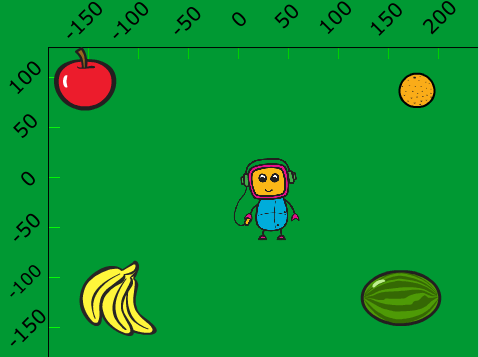
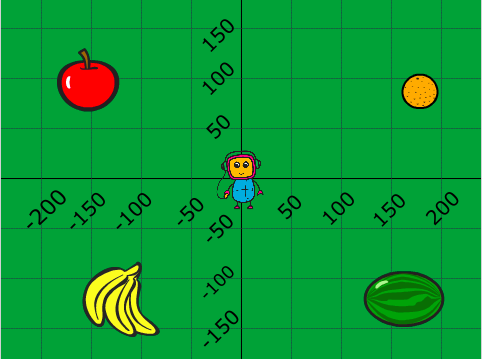
Uppdatering av Följ frukten
Uppdaterat bilder och instruktioner till uppgiften “Följ frukten”

diff --git a/block1_foljfrukten/README.html b/block1_foljfrukten/README.html
@@ -1,20 +1,26 @@
 <!doctype html>
 <html><head><meta charset="utf-8"><meta name="viewport" content="width=device-width"></head><body>
 <h1 id="f-lj-frukten">Följ frukten</h1>
-<p>I denna uppgift ska du få leka med koordinater i Scratch. Koordinater behövs för att ange någon eller någots position. Du ska få animera en robot så att den rör sig runt på scenen och äter frukt. Roboten och frukterna kommer ha olika koordinater som anger deras position.</p>
+<p>I denna uppgift ska du få leka med koordinater i Scratch. Koordinater behövs för att ange någon eller någots position. Du ska få animera en robot så att den rör sig runt på scenen och äter frukt.</p>
 <p>Ett exempel på hur det kan se ut hittar du här:</p>
 <p><a href="https://scratch.mit.edu/projects/172523787/">https://scratch.mit.edu/projects/172523787/</a></p>
 <p><img src="image_0.png" alt="image alt text"></p>
 <h2 id="delmoment-1-remixa-ett-projekt">Delmoment 1 - Remixa ett projekt</h2>
 <p>Vi börjar med att remixa projekt som redan finns på Scratch. Detta gör att det blir enklare att komma igång. Dessutom får du två sprajtar och lite kod på köpet. Smart va?!</p>
-<p>Öppna din webbläsare och gå till</p>
-<p><a href="https://scratch.mit.edu/projects/172763192/">https://scratch.mit.edu/projects/172763192/</a></p>
-<p>Klicka på knappen <strong>&quot;Se inuti&quot;</strong> så att du kan se koden.</p>
-<p><img src="image_1.png" alt="image alt text"></p>
-<p><em>Projektsidan som visas när du följer länken ovan</em></p>
-<p>Klicka sedan på knappen <strong>&quot;Remix&quot;</strong> så att du får din egen version av projektet.</p>
-<p><img src="image_2.png" alt="image alt text"><em>Remix-knappen markerad</em></p>
-<p>När du har remixat programmet så ser du att projektets namn har förändrats. Om du tittar under namnet ska du också se ditt eget användarnamn. Du kan döpa om projekt till något som passar bättre.</p>
+<ol>
+<li><p>Öppna din webbläsare och gå till</p>
+<p> <a href="https://scratch.mit.edu/projects/172763192/">https://scratch.mit.edu/projects/172763192/</a></p>
+</li>
+<li><p>Klicka på knappen <strong>&quot;Se inuti&quot;</strong> så att du kan se koden.</p>
+<p> <img src="image_1.png" alt="image alt text"></p>
+</li>
+<li><p>Klicka sedan på knappen <strong>&quot;Remix&quot;</strong> så att du får din egen version av projektet.</p>
+<p> <img src="image_2.png" alt="image alt text"></p>
+<p> När du har remixat programmet så ser du att projektets namn har förändrats.</p>
+</li>
+<li><p>Döp om projekt till något som passar bättre.</p>
+</li>
+</ol>
 <p><img src="image_3.png" alt="image alt text"></p>
 <p><em>Namnet på projektet har fått ordet &quot;remix&quot; på slutet</em></p>
 <p>I projektet har du nu två sprajter: <img src="image_4.png" alt="image alt text"></p>
@@ -24,84 +30,76 @@
 <li><p>Koordinataxlar som visar x- och y-axeln.</p>
 </li>
 </ol>
-<p>Innan vi börjar koda ska vi först titta lite närmare på våra två sprajter och koordinatsystemet i Scratch. Varje Sprajt har en specifik position i koordinatsystemet som anges med två siffror. En som anger positionen i höger–vänster riktning och en som anger positionen i upp–ner riktning. Positionen i höger–vänster riktning kallas x–värdet och positionen i upp–ner riktning kallas y-värdet. X– och y–värdena anges på två axlar: x–axeln och y–axeln. X–axeln går mellan –240 och 240, medan y–axeln går mellan –180 och 180.</p>
-<p><img src="image_5.png" alt="image alt text"><em>Så här ser en markerad sprajt ut</em></p>
-<p>Om du markerar sprajten <strong>Koordinater</strong> så får du upp koden för denna sprajt. Det är en enkel kod som helt enkelt placerar sprajten på rätt ställe på scenen.</p>
-<p>Om du klickar på fliken <strong>Klädslar</strong> kan du se att det finns koordinatsystemet uppritat på olika sätt.</p>
+<p>Innan vi börjar koda ska vi först titta lite närmare på våra två sprajter och koordinatsystemet i Scratch.</p>
+<ol>
+<li><p>Markerar sprajten <strong>Koordinater</strong> så får du upp koden för denna sprajt. Det är en enkel kod som helt enkelt placerar sprajten på rätt ställe på scenen.</p>
+<p> <img src="image_5.png" alt="image alt text"><em>Så här ser en markerad sprajt ut</em></p>
+</li>
+<li><p>Klicka på fliken <strong>Klädslar</strong>. Där finns koordinatsystemet uppritat på olika sätt.</p>
+</li>
+</ol>
 <p><img src="image_6.png" alt="image alt text"></p>
-<p><em>De olika sätten att rita koordinatsystemet</em></p>
-<p>Om du klickar på klädseln <strong>&quot;mitten_svart&quot;</strong> så får du upp ett sätt att visa koordinatsystemet som du kanske känner igen bättre. I detta koordinatsystem korsar x– och y–axeln med varandra.</p>
-<p><img src="image_7.png" alt="image alt text"></p>
-<p>Det är dock lika rätt att visa koordinatsystemet som det gjordes när du remixade projektet. Klicka på klädseln <strong>&quot;uppe_svart&quot;</strong>. I detta koordinatsystem visas x–axeln överst på scenen och y–axeln till vänster i scenen. På så sätt så skyms inte så mycket av spelet av koordinatsystemet, så vi kommer använda oss av det i denna övning. Om du känner dig säkrare med “korset” så klicka på klädseln <strong>“mitten_svart”</strong>.</p>
 <blockquote>
-<p>Nu ska vi kolla så att placeringen av koordinatsystemet fungerar!</p>
+<p>Vi kommer använda koordinatsystemet med ett rutnät så att du kan lära dig hur koordinater fungerar. När du lärt dig detta kan du använda en annan klädsel. En annan klädsel kan du också använda om krysset och rutnätet är i vägen för andra sprajter.</p>
 </blockquote>
-<p><img src="image_8.png" alt="image alt text"></p>
-<p><em>När du har musen vid –50 på x-axeln så visas koordinaterna i nedre-högra hörnet</em></p>
-<ul>
-<li><p>Flytta musen så att den är vid siffran <strong>–50</strong> på <strong>x-axeln</strong>.</p>
+<p><strong>Nu ska vi kolla så att placeringen av koordinatsystemet fungerar:</strong></p>
+<ol>
+<li><p>Flytta musen så att den är vid siffran <strong>50</strong> på <strong>x-axeln</strong> och <strong>-100</strong> på <strong>y-axeln</strong>.</p>
+<p> <img src="image_8.png" alt="image alt text"></p>
+<blockquote>
+<p>Om du tittar i högra hörnet under scenen så visar Scratch koordinaterna för musen. Stämmer den siffran överens med siffran på det utridade koordinatsystemet?</p>
+</blockquote>
 </li>
-<li><p>Om du tittar i högra hörnet under scenen så visar Scratch koordinaterna för musen. Stämmer den siffran överens med siffran på den utritade x-axeln?</p>
+<li><p>Klicka nu på sprajten <strong>Robot</strong> så att den blir markerad. Koordinaten för en sprajt visas i övre högra hörnet i skriptytan. Vilka koordinater har sprajten?</p>
+<p> <img src="image_9.png" alt="image alt text"></p>
 </li>
-<li><p>Flytta nu musen till <strong>50</strong> på <strong>y-axeln</strong>. Visas rätt koordinater under scenen?</p>
-</li>
-</ul>
-<p>Klicka nu på sprajten <strong>Robot</strong> så att den blir markerad. Koordinaten för en sprajt visas i övre högra hörnet i skriptytan. Vilka koordinater har sprajten?</p>
-<p><img src="image_9.png" alt="image alt text"></p>
-<ul>
 <li><p>Flytta omkring <strong>Robot-sprajten</strong> på scenen och se hur koordinaterna ändrar sig</p>
 </li>
 <li><p>Placera <strong>Robot</strong>-sprajten ungefär vid <strong>x: 0, y:0</strong>. Denna punkt kallas <em>origo</em>, och är mitt på scenen.</p>
 </li>
-</ul>
+</ol>
 <h2 id="delmoment-2-bakgrund-och-frukter">Delmoment 2 - Bakgrund och frukter</h2>
 <p>Du ska få börja med att ladda en bakgrundsbild för spelet.</p>
 <p><img src="image_10.png" alt="image alt text"></p>
-<ul>
+<ol>
 <li><p>Klicka på fliken <strong>Bakgrunder</strong></p>
 </li>
-<li><p>Klicka på <strong>Färgburken</strong> och färglägg bakgrunden med en grön färg.</p>
+<li><p>Klicka på <strong>Färgburken</strong> och färglägg bakgrunden med en rolig färg. Här i exemplet har jag använt grönt.</p>
+<p> <img src="image_11.png" alt="image alt text"></p>
 </li>
-</ul>
-<p><img src="image_11.png" alt="image alt text"></p>
-<p><em>Färgburken är markerad i bilden</em></p>
-<p>Nu ska vi placera ut några frukter på scenen!</p>
-<p><img src="image_12.png" alt="image alt text"></p>
+</ol>
+<p><strong>Nu ska vi placera ut några frukter på scenen:</strong></p>
 <ol>
 <li><p>Klicka på &quot;Välj sprajt från biblioteket&quot;</p>
+<p> <img src="image_12.png" alt="image alt text"></p>
 </li>
 <li><p>Markera <strong>Äpplet</strong> och klicka på <strong>Ok</strong></p>
 </li>
 <li><p>Placera <strong>Äpplet</strong> i övre vänstra hörnet på scenen.</p>
 </li>
+<li><p>Lägg själv till tre sprajter och placera ut dem på scenen. Här har vi valt att lägga ut <strong>Bananer</strong>, <strong>Apelsin</strong> och <strong>Vattenmelon</strong>.</p>
+</li>
 </ol>
-<p>Nu får själv lägga till tre sprajter och placera ut dem på scenen. Här har vi valt att lägga ut <strong>Bananer</strong>, <strong>Apelsin</strong> och <strong>Vattenmelon</strong>.</p>
 <p>Det kan se ut så här:</p>
 <p><img src="image_13.png" alt="image alt text"></p>
 <h2 id="delmoment-3-animera-roboten">Delmoment 3 - Animera roboten</h2>
 <p>Nu ska vi animera roboten så att den rör sig mellan de olika frukterna: först till äpplet, sedan till bananerna, sedan till vattenmelonen och till sist till apelsinen.</p>
 <ol>
-<li>Börja med att markera <strong>Robot</strong> sprajten:</li>
-</ol>
-<p><img src="image_14.png" alt="image alt text"></p>
-<p><em>När en sprajt är markerad ser du ett blå ruta runt den sprajten</em></p>
-<ol>
-<li>Sedan ska vi skapa ett skript för roboten. Börja med att dra in ett kodblock som heter <strong>&quot;När denna sprajt klickas på&quot;</strong> till skriptytan.</li>
-</ol>
-<p><img src="image_15.png" alt="image alt text"></p>
-<ol>
-<li>Under detta block fäster du ett kodblock <strong>&quot;Gå till x: y:&quot;</strong></li>
-</ol>
-<p><img src="image_16.png" alt="image alt text"></p>
-<ol>
-<li>I stället för koordinaterna som står i kodblocket skriver du vilka koordinater <strong>du tror att äpplet har</strong>. Använd det utritade koordinatsystemet som hjälp. Det kan se ut se här.</li>
-</ol>
-<p><img src="image_17.png" alt="image alt text"></p>
-<ol>
-<li>Dra in sedan ett kodblock <strong>&quot;Vänta 1 sekund&quot;</strong> och fäst det underst i skriptet.</li>
-</ol>
-<p><img src="image_18.png" alt="image alt text"></p>
-<ol>
+<li><p>Börja med att markera <strong>Robot</strong> sprajten:</p>
+<p> <img src="image_14.png" alt="image alt text"></p>
+</li>
+<li><p>Skapa ett skript för roboten. Börja med att dra in ett kodblock som heter <strong>&quot;När denna sprajt klickas på&quot;</strong> till skriptytan.</p>
+<p> <img src="image_15.png" alt="image alt text"></p>
+</li>
+<li><p>Under detta block fäster du ett kodblock <strong>&quot;Gå till x: y:&quot;</strong></p>
+<p> <img src="image_16.png" alt="image alt text"></p>
+</li>
+<li><p>I stället för koordinaterna som står i kodblocket skriver du vilka koordinater <strong>du tror att äpplet har</strong>. Använd det utritade koordinatsystemet som hjälp. Det kan se ut se här.</p>
+<p> <img src="image_17.png" alt="image alt text"></p>
+</li>
+<li><p>Dra in sedan ett kodblock <strong>&quot;Vänta 1 sekund&quot;</strong> och fäst det underst i skriptet.</p>
+<p> <img src="image_18.png" alt="image alt text"></p>
+</li>
 <li><p>Nu drar du in ett till <strong>&quot;gå till x: y:&quot;</strong> och anger koordinaterna för bananerna. Och sedan ett <strong>“vänta”</strong>-block.</p>
 </li>
 <li><p>Fortsätt så tills du har animerat <strong>Roboten</strong> att gå runt till alla frukterna.</p>
@@ -120,7 +118,6 @@
 </li>
 </ol>
 <p><img src="image_19.png" alt="image alt text"></p>
-<p><em>Detta är robotens startskript</em></p>
 <h2 id="f-rdig-">Färdig!</h2>
 <p>Grattis, nu har du skapat ett nytt program!</p>
 <p>Glöm inte att spara ditt projekt! Kom ihåg att ge spelet ett bra namn.</p>

diff --git a/block1_foljfrukten/README.md b/block1_foljfrukten/README.md
@@ -1,6 +1,6 @@
 # Följ frukten
 
-I denna uppgift ska du få leka med koordinater i Scratch. Koordinater behövs för att ange någon eller någots position. Du ska få animera en robot så att den rör sig runt på scenen och äter frukt. Roboten och frukterna kommer ha olika koordinater som anger deras position.
+I denna uppgift ska du få leka med koordinater i Scratch. Koordinater behövs för att ange någon eller någots position. Du ska få animera en robot så att den rör sig runt på scenen och äter frukt.
 
 Ett exempel på hur det kan se ut hittar du här:
 
@@ -12,21 +12,22 @@ Ett exempel på hur det kan se ut hittar du här:
 
 Vi börjar med att remixa projekt som redan finns på Scratch. Detta gör att det blir enklare att komma igång. Dessutom får du två sprajtar och lite kod på köpet. Smart va?!
 
-Öppna din webbläsare och gå till
+1. Öppna din webbläsare och gå till
 
-[https://scratch.mit.edu/projects/172763192/](https://scratch.mit.edu/projects/172763192/)
+    [https://scratch.mit.edu/projects/172763192/](https://scratch.mit.edu/projects/172763192/)
 
-Klicka på knappen **"Se inuti"** så att du kan se koden.
+2. Klicka på knappen **"Se inuti"** så att du kan se koden.
 
-![image alt text](image_1.png)
+    ![image alt text](image_1.png)
 
-*Projektsidan som visas när du följer länken ovan*
+3. Klicka sedan på knappen **"Remix"** så att du får din egen version av projektet.
 
-Klicka sedan på knappen **"Remix"** så att du får din egen version av projektet.
+    ![image alt text](image_2.png)
 
-![image alt text](image_2.png)*Remix-knappen markerad*
+    När du har remixat programmet så ser du att projektets namn har förändrats.
 
-När du har remixat programmet så ser du att projektets namn har förändrats. Om du tittar under namnet ska du också se ditt eget användarnamn. Du kan döpa om projekt till något som passar bättre.
+4. Döp om projekt till något som passar bättre.
+
 
 ![image alt text](image_3.png)
 
@@ -38,43 +39,33 @@ I projektet har du nu två sprajter: ![image alt text](image_4.png)
 
 2. Koordinataxlar som visar x- och y-axeln.
 
-Innan vi börjar koda ska vi först titta lite närmare på våra två sprajter och koordinatsystemet i Scratch. Varje Sprajt har en specifik position i koordinatsystemet som anges med två siffror. En som anger positionen i höger–vänster riktning och en som anger positionen i upp–ner riktning. Positionen i höger–vänster riktning kallas x–värdet och positionen i upp–ner riktning kallas y-värdet. X– och y–värdena anges på två axlar: x–axeln och y–axeln. X–axeln går mellan –240 och 240, medan y–axeln går mellan –180 och 180.
+Innan vi börjar koda ska vi först titta lite närmare på våra två sprajter och koordinatsystemet i Scratch.
 
-![image alt text](image_5.png)*Så här ser en markerad sprajt ut*
+1. Markerar sprajten **Koordinater** så får du upp koden för denna sprajt. Det är en enkel kod som helt enkelt placerar sprajten på rätt ställe på scenen.
 
-Om du markerar sprajten **Koordinater** så får du upp koden för denna sprajt. Det är en enkel kod som helt enkelt placerar sprajten på rätt ställe på scenen.
+    ![image alt text](image_5.png)*Så här ser en markerad sprajt ut*
 
-Om du klickar på fliken **Klädslar** kan du se att det finns koordinatsystemet uppritat på olika sätt.
+2. Klicka på fliken **Klädslar**. Där finns koordinatsystemet uppritat på olika sätt.
 
 ![image alt text](image_6.png)
 
-*De olika sätten att rita koordinatsystemet*
+> Vi kommer använda koordinatsystemet med ett rutnät så att du kan lära dig hur koordinater fungerar. När du lärt dig detta kan du använda en annan klädsel. En annan klädsel kan du också använda om krysset och rutnätet är i vägen för andra sprajter.
 
-Om du klickar på klädseln **"mitten_svart"** så får du upp ett sätt att visa koordinatsystemet som du kanske känner igen bättre. I detta koordinatsystem korsar x– och y–axeln med varandra.
+**Nu ska vi kolla så att placeringen av koordinatsystemet fungerar:**
 
-![image alt text](image_7.png)
+1. Flytta musen så att den är vid siffran **50** på **x-axeln** och **-100** på **y-axeln**.
 
-Det är dock lika rätt att visa koordinatsystemet som det gjordes när du remixade projektet. Klicka på klädseln **"uppe_svart"**. I detta koordinatsystem visas x–axeln överst på scenen och y–axeln till vänster i scenen. På så sätt så skyms inte så mycket av spelet av koordinatsystemet, så vi kommer använda oss av det i denna övning. Om du känner dig säkrare med “korset” så klicka på klädseln **“mitten_svart”**.
+    ![image alt text](image_8.png)
 
-> Nu ska vi kolla så att placeringen av koordinatsystemet fungerar!
+    > Om du tittar i högra hörnet under scenen så visar Scratch koordinaterna för musen. Stämmer den siffran överens med siffran på det utridade koordinatsystemet?
 
-![image alt text](image_8.png)
+2. Klicka nu på sprajten **Robot** så att den blir markerad. Koordinaten för en sprajt visas i övre högra hörnet i skriptytan. Vilka koordinater har sprajten?
 
-*När du har musen vid –50 på x-axeln så visas koordinaterna i nedre-högra hörnet*
+    ![image alt text](image_9.png)
 
-* Flytta musen så att den är vid siffran **–50** på **x-axeln**.
+3. Flytta omkring **Robot-sprajten** på scenen och se hur koordinaterna ändrar sig
 
-* Om du tittar i högra hörnet under scenen så visar Scratch koordinaterna för musen. Stämmer den siffran överens med siffran på den utritade x-axeln?
-
-* Flytta nu musen till **50** på **y-axeln**. Visas rätt koordinater under scenen?
-
-Klicka nu på sprajten **Robot** så att den blir markerad. Koordinaten för en sprajt visas i övre högra hörnet i skriptytan. Vilka koordinater har sprajten?
-
-![image alt text](image_9.png)
-
-* Flytta omkring **Robot-sprajten** på scenen och se hur koordinaterna ändrar sig
-
-* Placera **Robot**-sprajten ungefär vid **x: 0, y:0**. Denna punkt kallas *origo*, och är mitt på scenen.
+4. Placera **Robot**-sprajten ungefär vid **x: 0, y:0**. Denna punkt kallas *origo*, och är mitt på scenen.
 
 ## Delmoment 2 - Bakgrund och frukter
 
@@ -82,25 +73,24 @@ Du ska få börja med att ladda en bakgrundsbild för spelet.
 
 ![image alt text](image_10.png)
 
-* Klicka på fliken **Bakgrunder**
+1. Klicka på fliken **Bakgrunder**
 
-* Klicka på **Färgburken** och färglägg bakgrunden med en grön färg.
+2. Klicka på **Färgburken** och färglägg bakgrunden med en rolig färg. Här i exemplet har jag använt grönt.
 
-![image alt text](image_11.png)
+    ![image alt text](image_11.png)
 
-*Färgburken är markerad i bilden*
+**Nu ska vi placera ut några frukter på scenen:**
 
-Nu ska vi placera ut några frukter på scenen!
-
-![image alt text](image_12.png)
 
 1. Klicka på "Välj sprajt från biblioteket"
+
+    ![image alt text](image_12.png)
 
 2. Markera **Äpplet** och klicka på **Ok**
 
 3. Placera **Äpplet** i övre vänstra hörnet på scenen.
 
-Nu får själv lägga till tre sprajter och placera ut dem på scenen. Här har vi valt att lägga ut **Bananer**, **Apelsin** och **Vattenmelon**.
+4. Lägg själv till tre sprajter och placera ut dem på scenen. Här har vi valt att lägga ut **Bananer**, **Apelsin** och **Vattenmelon**.
 
 Det kan se ut så här:
 
@@ -112,25 +102,23 @@ Nu ska vi animera roboten så att den rör sig mellan de olika frukterna: först
 
 1. Börja med att markera **Robot** sprajten:
 
-![image alt text](image_14.png)
+    ![image alt text](image_14.png)
 
-*När en sprajt är markerad ser du ett blå ruta runt den sprajten*
+2. Skapa ett skript för roboten. Börja med att dra in ett kodblock som heter **"När denna sprajt klickas på"** till skriptytan.
 
-2. Sedan ska vi skapa ett skript för roboten. Börja med att dra in ett kodblock som heter **"När denna sprajt klickas på"** till skriptytan.
-
-![image alt text](image_15.png)
+    ![image alt text](image_15.png)
 
 3. Under detta block fäster du ett kodblock **"Gå till x: y:"**
 
-![image alt text](image_16.png)
+    ![image alt text](image_16.png)
 
 4. I stället för koordinaterna som står i kodblocket skriver du vilka koordinater **du tror att äpplet har**. Använd det utritade koordinatsystemet som hjälp. Det kan se ut se här.
 
-![image alt text](image_17.png)
+    ![image alt text](image_17.png)
 
 5. Dra in sedan ett kodblock **"Vänta 1 sekund"** och fäst det underst i skriptet.
 
-![image alt text](image_18.png)
+    ![image alt text](image_18.png)
 
 6. Nu drar du in ett till **"gå till x: y:"** och anger koordinaterna för bananerna. Och sedan ett **“vänta”**-block.
 
@@ -147,8 +135,6 @@ Vi ska göra programmet lite bättre, så att roboten kommer tillbaka till mitte
 3. Lägg överst
 
 ![image alt text](image_19.png)
-
-*Detta är robotens startskript*
 
 ## Färdig!
 
